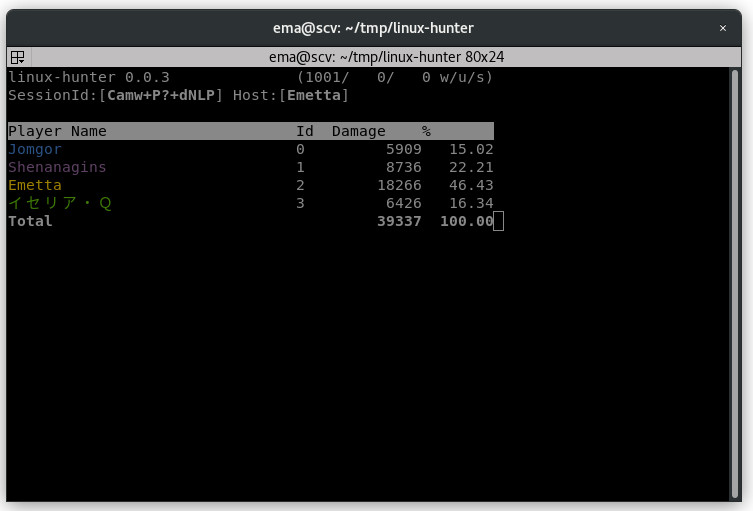
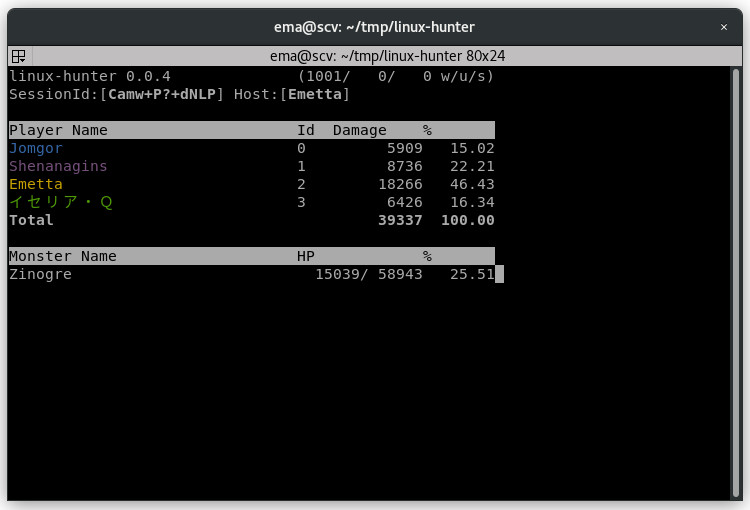
Updated README.md and pics

Changed region(s): [[0.0, 0.0, 1.0, 1.0], [0.0, 0.2353, 0.6747, 0.5588], [0.3987, 0.3235, 0.4293, 0.4118]]

diff --git a/README.md b/README.md
@@ -10,6 +10,7 @@ Prototype MH:W companion app for Linux, inspired by SmartHunter.
 * [Linux differences](#linux-differences)
   * [AoB structures](#aob-structures)
   * [Strings are longer](#strings-are-longer)
+  * [Wine Complexities](#wine-complexities)
 * [Root access](#root-access)
 * [How to build](#how-to-build)
 * [How to run](#how-to-run)
@@ -19,9 +20,10 @@ Prototype MH:W companion app for Linux, inspired by SmartHunter.
 Running the application as `./linux-hunter --help` will produce the following:
 ```
 Usage: ./linux-hunter [options]
-Executes linux-hunter 0.0.3
+Executes linux-hunter 0.0.4
 
 -p, --mhw-pid p     Specifies which pid to scan memory for (usually main MH:W)
+-m, --show-monsters Shows HP monsters data (requires slightly more CPU usage)
 -s, --save dir      Captures the specified pid into directory 'dir' and quits
 -l, --load dir      Loads the specified capture directory 'dir' and displays
                     info (static - useful for debugging)
@@ -49,8 +51,11 @@ The second row displays the MH:W session id (if any) and the owner of such sessi
 
 The following rows will represent the players and the absolute/relative damage (currently they may display _NaN_ when not in a hunt).
 
+If then you've enabled the `-m` (or `--show-monsters`), another pane will appear with the monsters currently tracked by the game and their current, total and % _HP_.
+
 ## Screenshots
 
+![During Hunt](https://raw.githubusercontent.com/Emanem/linux-hunter/master/pics/hunt0.jpg)
 ![Before Hunt](https://raw.githubusercontent.com/Emanem/linux-hunter/master/pics/start_hunt.jpg)
 ![Mid Hunt](https://raw.githubusercontent.com/Emanem/linux-hunter/master/pics/mid_hunt.jpg)
 ![End Hunt](https://raw.githubusercontent.com/Emanem/linux-hunter/master/pics/end_hunt.jpg)
@@ -70,6 +75,20 @@ Other AoBs such as [PlayerDamage](https://github.com/Emanem/linux-hunter/blob/6b
 
 ### Strings are longer 
 When reading the players' names I have to [add one byte](https://github.com/Emanem/linux-hunter/blob/6b397574ff51d5c37b2dc4f2ec32e6558901a807/src/main.cpp#L149); compare the similar logic in [SmartHunter](https://github.com/sir-wilhelm/SmartHunter/blob/7fa3d5a30a653f3587d3ba32afec195224690b9c/SmartHunter/Game/Helpers/MhwHelper.cs#L298).
+
+### Wine Complexities
+I've also reached out to wine SMEs asking about the efforts of creating/porting such compation software. Their feedback has been:
+```
+What you are doing here is very fragile, even going from Windows to Windows. I realize it is a common thing to do for game mods though if the game does not provide an API for such modifications.
+
+How reliably memory patterns are replicated between Wine and Windows and even two different Windows versions depends on how the allocations are made. If you are looking up pointers into the game's code in its DLLs and EXE files they are very similar because the PE file is mmap'ed into the processes' address space. You have good chances of the absolute addresses to be identical.
+
+If the game allocates a big blob of Heap memory in one go and fills it with data you should also be lucky. If there are multiple independent heap allocations done by the game the patterns will start to look differently. Wine will not allocate smaller memory blobs than requested, but a heap allocation may be slightly larger, placed in different areas of the address space, etc. The exact details not only depend on Wine, but also on the Linux kernel, linux libs etc.
+
+Things will get even more spotty if the actual memory allocations are done by some Windows API functions. I don't know the string APIs in detail, so the following example is just a hypothetical one: If the game loads data from an XML file we pass the heavy lifting to the Linux libxml2 library. Its internal workings are different from microsoft's msxml.dll so the layout of the loaded file will not look alike at all.
+
+You can try to look into some observable allocation properties with functions like HeapSize and VirtualQuery. One thing worth exploring is finding memory allocations not by searching for magic patterns in memory but hooking functions that the game uses to load the data. It may or may not work better.
+```
 
 ## Root access
 Unforutnately looks like CAPCOM and/or wine/Proton are protecting memory, hence this requires `sudo` access when running.
